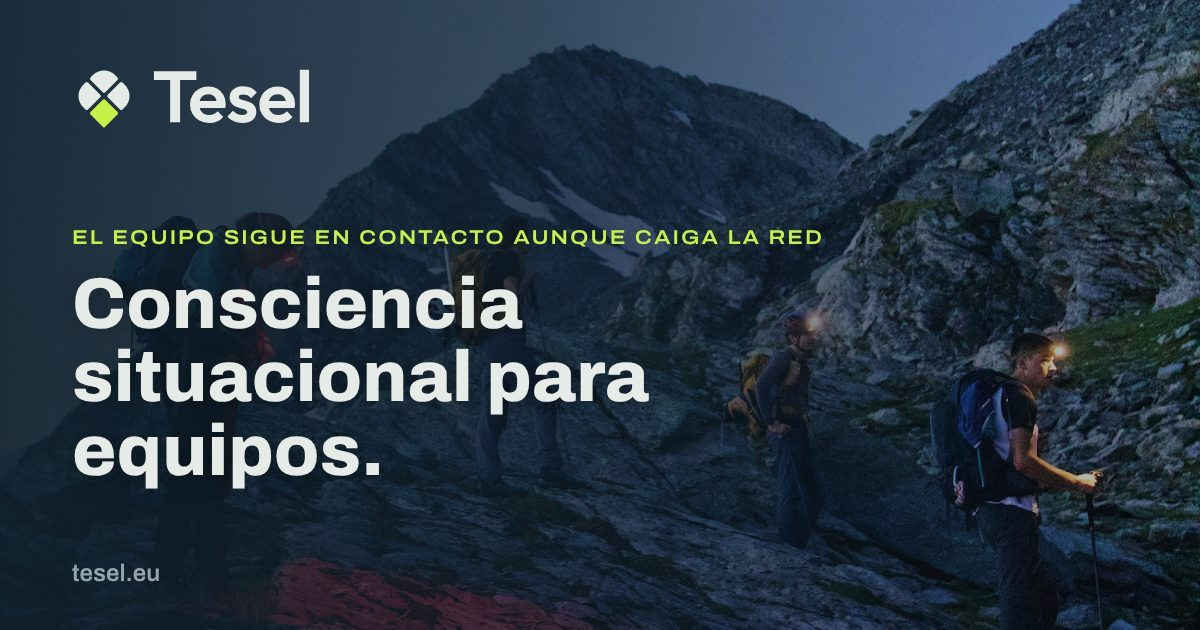
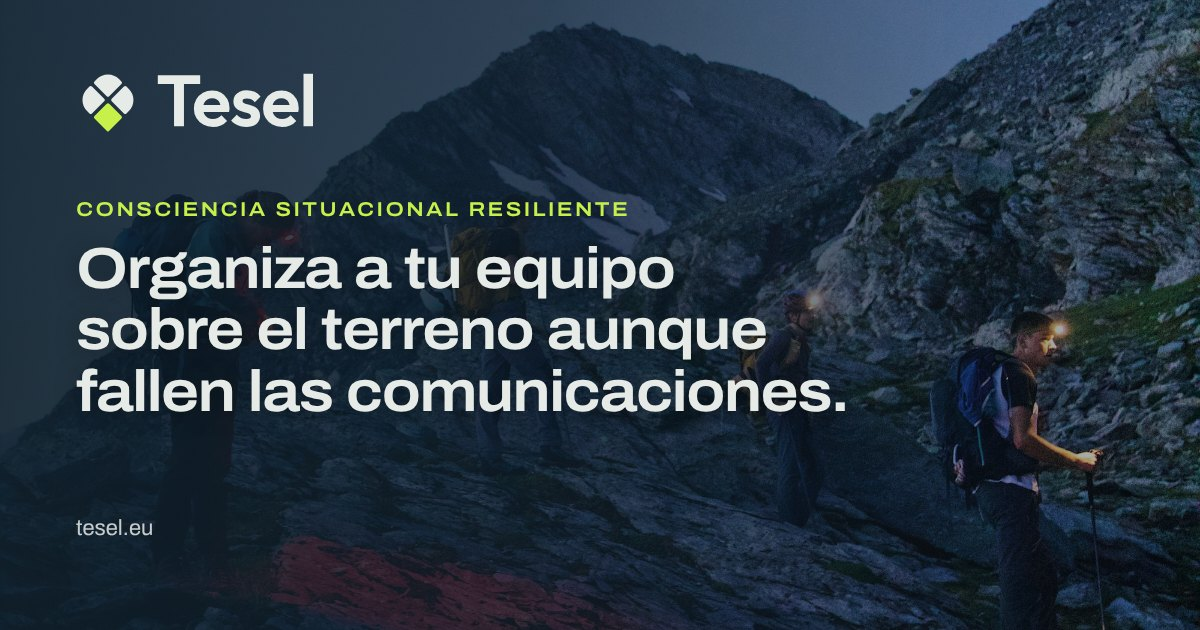
docs(site): lead with resilient situational awareness
The home page's eyebrow and heading now read "Consciencia situacional
resiliente" over "Organiza a tu equipo sobre el terreno aunque fallen
las comunicaciones" (and in English), in the title, the share text and
pictures too. The heading is set smaller and wider, as a sentence.

Claude-Session: https://claude.ai/code/session_01Hfm8dyPBUQ5nGwrtNpfWec

diff --git a/apps/site/index.html b/apps/site/index.html
@@ -3,7 +3,7 @@
   <head>
     <meta charset="utf-8" />
     <meta name="viewport" content="width=device-width, initial-scale=1" />
-    <title>Tesel · Consciencia situacional para equipos</title>
+    <title>Tesel · Consciencia situacional resiliente para equipos</title>
     <meta
       name="description"
       content="Tesel reúne en un mismo mapa dónde está cada miembro del equipo, qué está pasando y quién se ocupa de qué. Con internet y, si falla la cobertura, por radio. Gratuita, sin registro y cifrada."
@@ -20,7 +20,7 @@
     <link rel="alternate" hreflang="x-default" href="https://tesel.eu/" />
     <meta property="og:type" content="website" />
     <meta property="og:site_name" content="Tesel" />
-    <meta property="og:title" content="Tesel · Consciencia situacional para equipos" />
+    <meta property="og:title" content="Tesel · Consciencia situacional resiliente para equipos" />
     <meta
       property="og:description"
       content="Tesel reúne en un mismo mapa dónde está cada miembro del equipo, qué está pasando y quién se ocupa de qué. Con internet y, si falla la cobertura, por radio. Gratuita, sin registro y cifrada."
@@ -31,7 +31,7 @@
     <meta property="og:image:height" content="630" />
     <meta
       property="og:image:alt"
-      content="Tesel: consciencia situacional para equipos. El equipo sigue en contacto aunque caiga la red."
+      content="Tesel: consciencia situacional resiliente. Organiza a tu equipo sobre el terreno aunque fallen las comunicaciones."
     />
     <meta property="og:locale" content="es_ES" />
     <meta property="og:locale:alternate" content="en_GB" />
@@ -84,8 +84,8 @@
           />
         </picture>
         <div class="wrap">
-          <p class="eyebrow">El equipo sigue en contacto aunque caiga la red</p>
-          <h1>Consciencia situacional para equipos.</h1>
+          <p class="eyebrow">Consciencia situacional resiliente</p>
+          <h1>Organiza a tu equipo sobre el terreno aunque fallen las comunicaciones.</h1>
           <p class="lead">
             Dónde está cada uno, qué está pasando y quién se ocupa de qué. Con internet y, si falla
             la cobertura, por radio.

diff --git a/apps/site/en/index.html b/apps/site/en/index.html
@@ -3,7 +3,7 @@
   <head>
     <meta charset="utf-8" />
     <meta name="viewport" content="width=device-width, initial-scale=1" />
-    <title>Tesel · Situational awareness for teams</title>
+    <title>Tesel · Resilient situational awareness for teams</title>
     <meta
       name="description"
       content="Tesel puts on one map where each member of the team is, what is happening and who is taking care of what. Over the internet and, if coverage fails, by radio. Free, no sign-up, encrypted."
@@ -18,7 +18,7 @@
     <link rel="alternate" hreflang="x-default" href="https://tesel.eu/" />
     <meta property="og:type" content="website" />
     <meta property="og:site_name" content="Tesel" />
-    <meta property="og:title" content="Tesel · Situational awareness for teams" />
+    <meta property="og:title" content="Tesel · Resilient situational awareness for teams" />
     <meta
       property="og:description"
       content="Tesel puts on one map where each member of the team is, what is happening and who is taking care of what. Over the internet and, if coverage fails, by radio. Free, no sign-up, encrypted."
@@ -29,7 +29,7 @@
     <meta property="og:image:height" content="630" />
     <meta
       property="og:image:alt"
-      content="Tesel: situational awareness for teams. The team stays in touch even when the network goes down."
+      content="Tesel: resilient situational awareness. Keep your team organised in the field, even when communications fail."
     />
     <meta property="og:locale" content="en_GB" />
     <meta property="og:locale:alternate" content="es_ES" />
@@ -87,8 +87,8 @@
           />
         </picture>
         <div class="wrap">
-          <p class="eyebrow">The team stays in touch even when the network goes down</p>
-          <h1>Situational awareness for teams.</h1>
+          <p class="eyebrow">Resilient situational awareness</p>
+          <h1>Keep your team organised in the field, even when communications fail.</h1>
           <p class="lead">
             Where everyone is, what is happening and who is taking care of what. Over the internet
             and, if coverage fails, by radio.

diff --git a/apps/site/styles.css b/apps/site/styles.css
@@ -350,8 +350,9 @@ h3 {
 }
 
 .hero h1 {
-  font-size: clamp(2.5rem, 1.3rem + 4.6vw, 4.6rem);
-  max-width: 14ch;
+  /* A sentence, not a slogan: smaller than a two-word title, and wider. */
+  font-size: clamp(2.05rem, 1.2rem + 3.2vw, 3.7rem);
+  max-width: 19ch;
   text-shadow: 0 2px 24px rgb(0 0 0 / 35%);
 }
 
